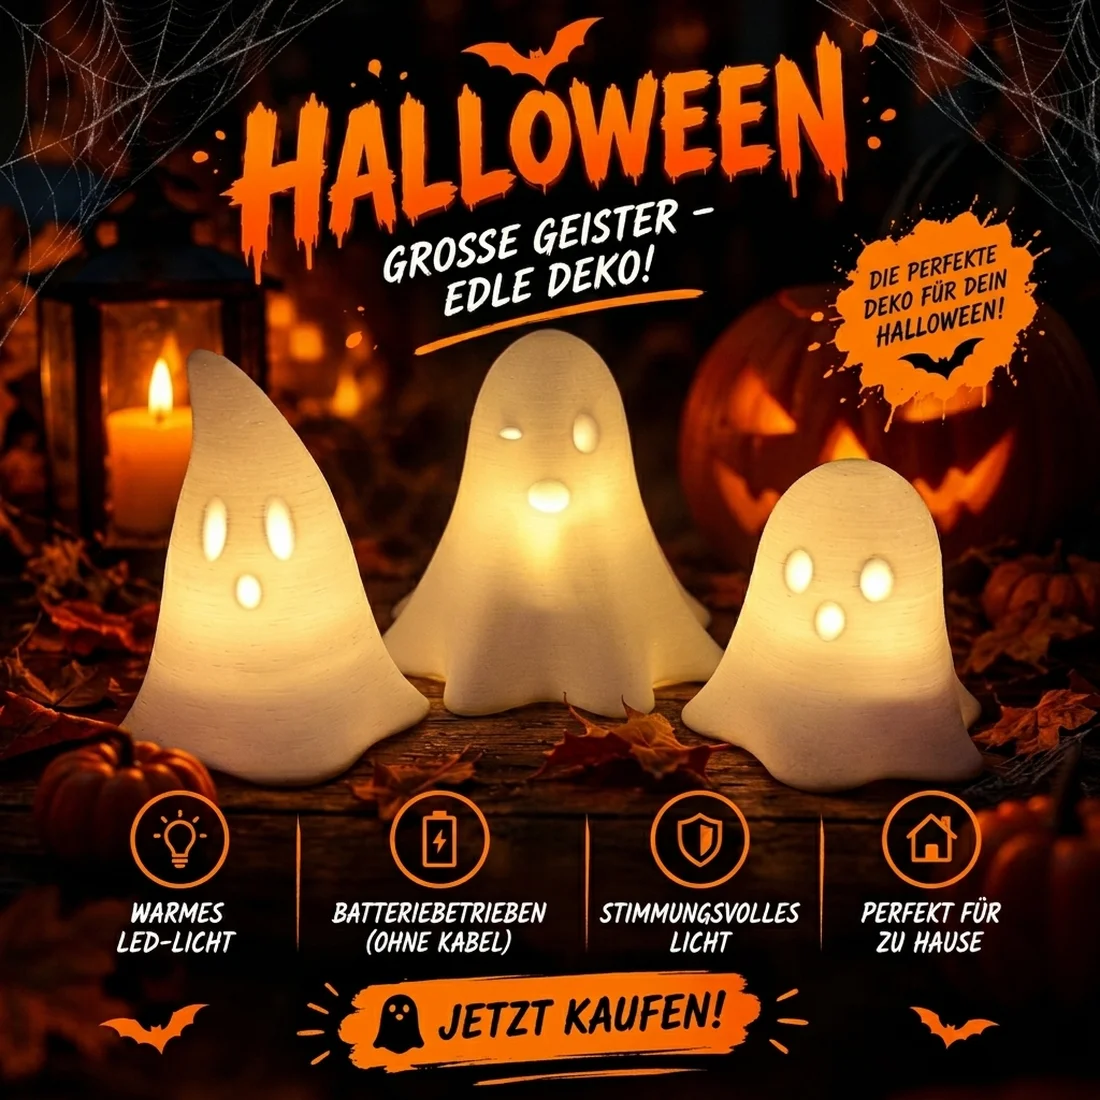
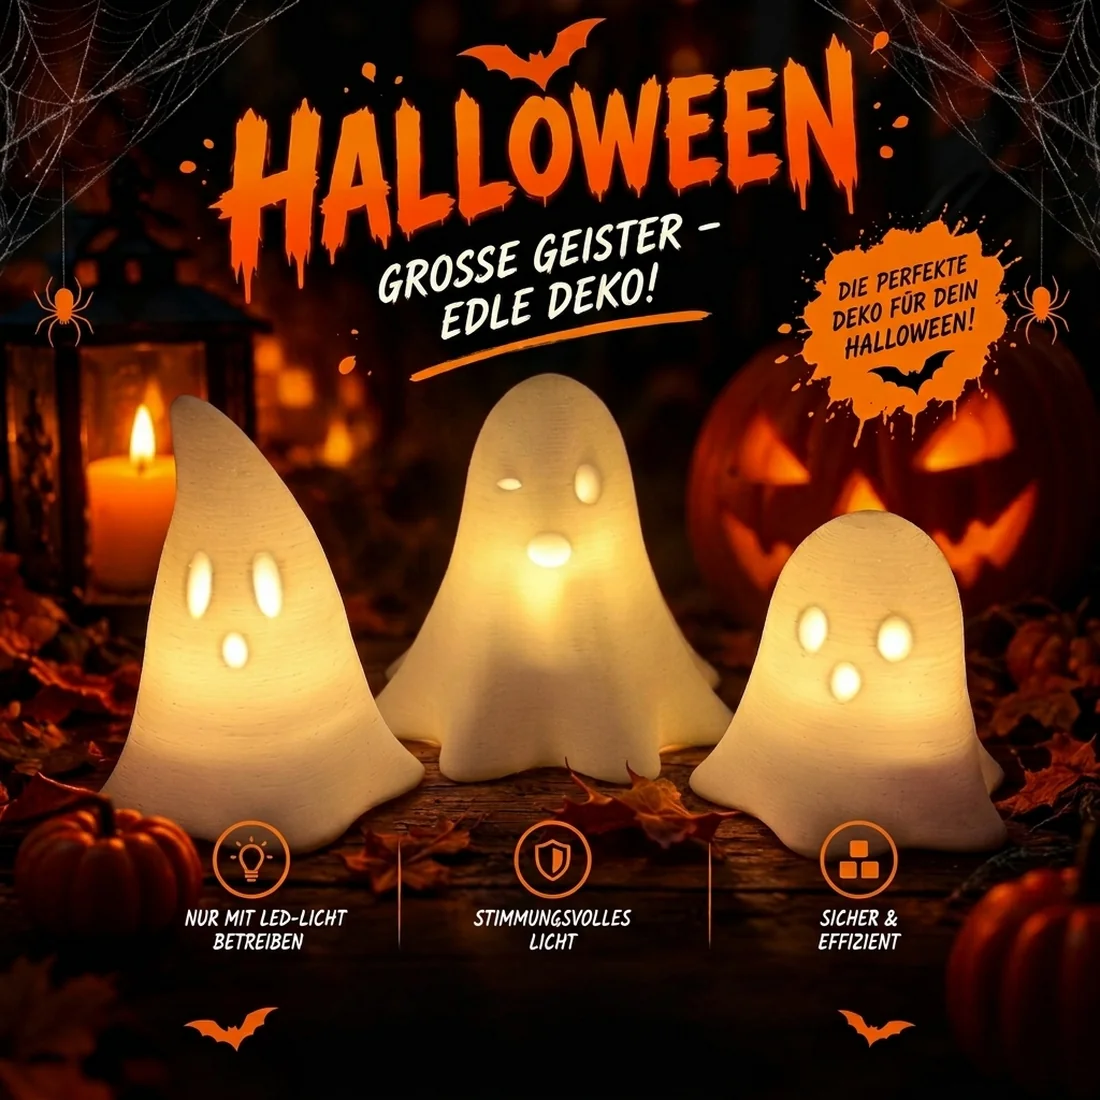
Geister-Set gross: neues Cover (leuchtend) + Foto ohne Licht mit Maske fuer die Farbwahl, alte Fotos entfernt
Claude-Session: https://claude.ai/code/session_01J3XNNkixmMVkzjtWsont1N

diff --git a/lib/shop/fotos.ts b/lib/shop/fotos.ts
@@ -33,12 +33,9 @@ const ALT: Record<string, string[]> = {
   "spruch-untersetzer": [
     "Individueller Untersetzer stehend neben einem Glas mit Zitrone und Minze, darauf dein Text und deine Farben (Vorschau)",
   ],
+  // Titelbild (Cover, Geister leuchten mit LED-Licht) kommt automatisch zuerst; Foto 1 = Geister ohne Licht, darauf wird die Farbwahl gelegt (Maske 1.m.webp), die Galerie springt beim Ändern dorthin
   "geister-set": [
-    "Drei große Geister nebeneinander",
-    "Drei große Geister leuchten mit LED-Teelicht im Dunkeln",
-    "Großer Geist mit einem Auge zwinkernd",
-    "Großer Geist mit schiefem Kopf",
-    "Großer Geist, Vorderansicht",
+    "Drei große Geister ohne Licht nebeneinander, in deiner gewählten Farbe (gestaltetes Bild)",
   ],
   "geister-set-klein": [
     "Drei kleine Geister nebeneinander",
